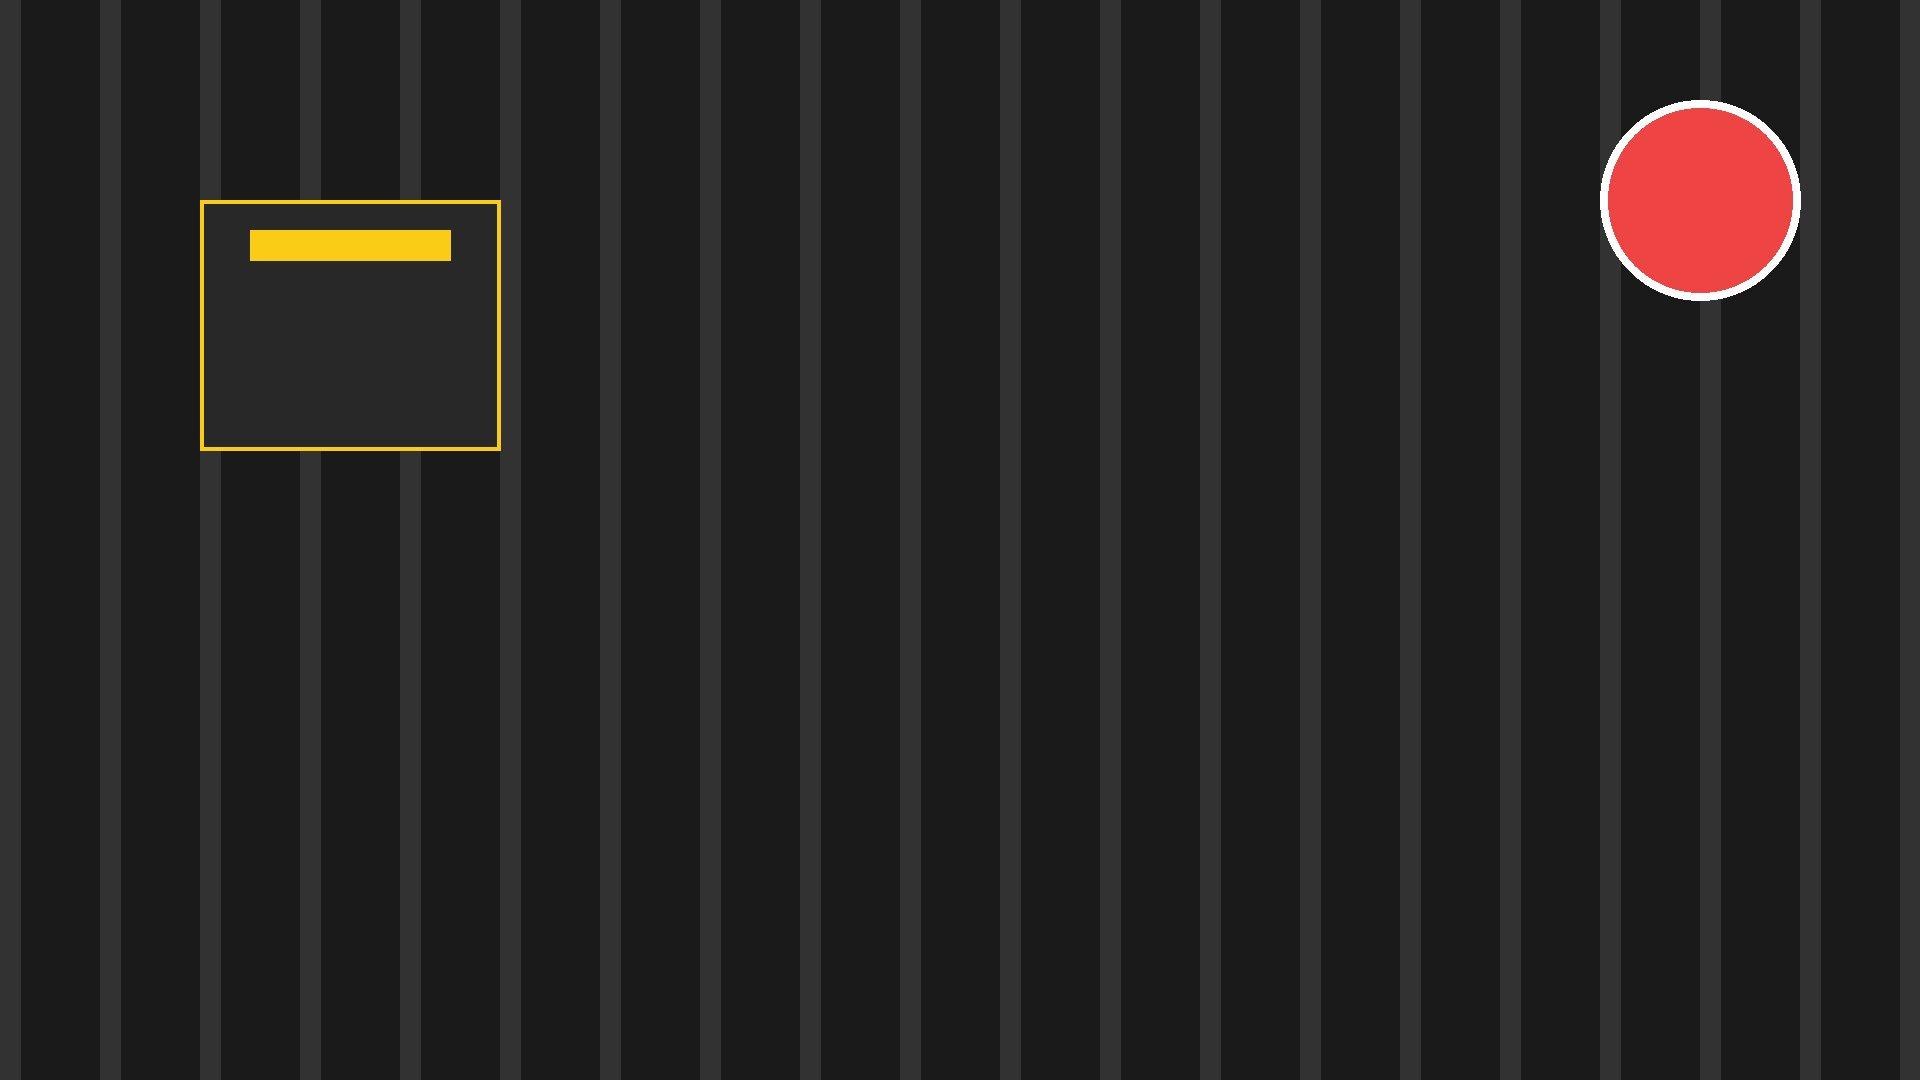
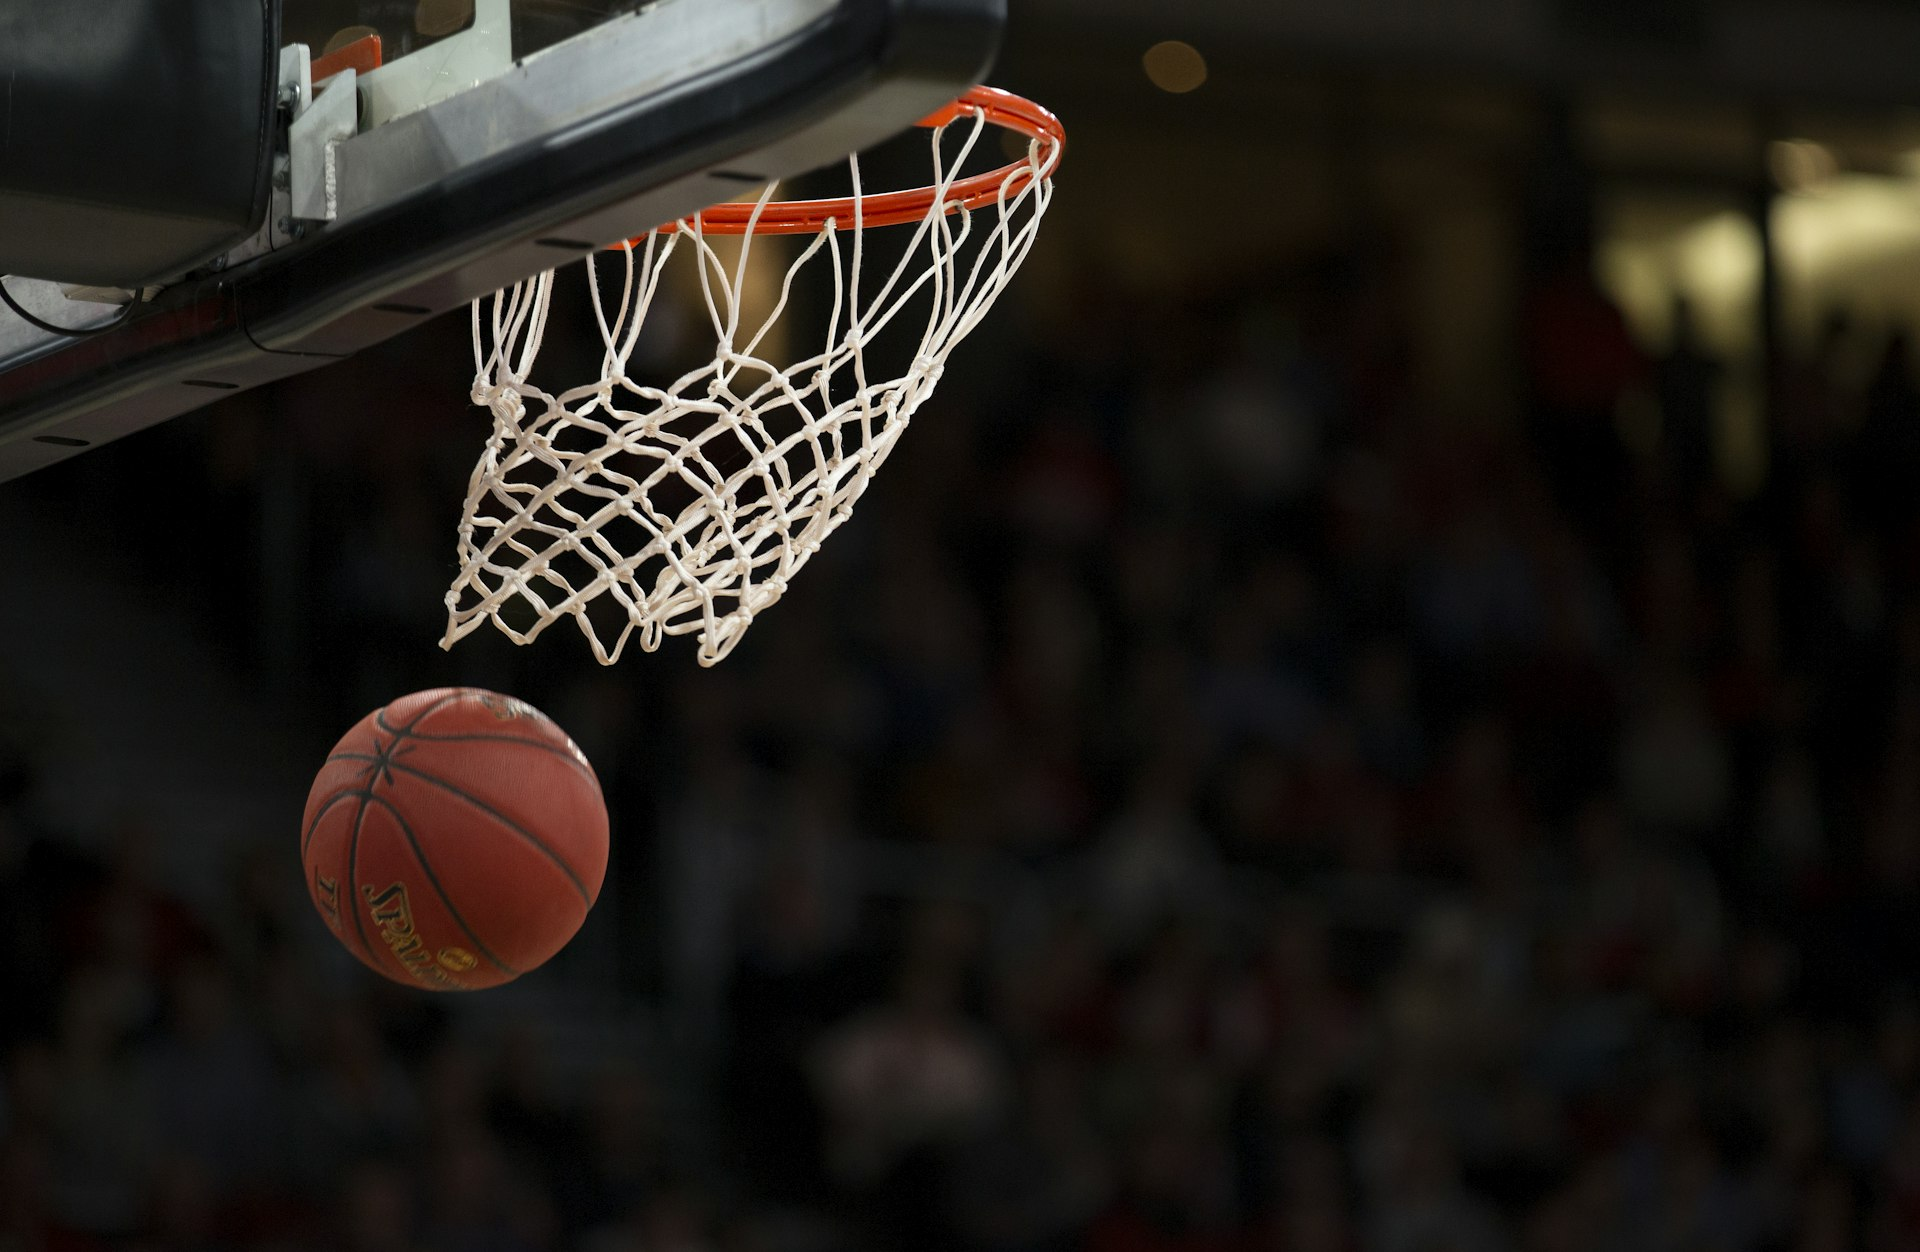
Update site

diff --git a/schedule.html b/schedule.html
@@ -50,7 +50,7 @@
         <a href="contact.html" class="hover:text-brand-yellow transition-colors py-2 inline-block">ارتباط با ما</a>
     </div>
     <section class="min-h-screen relative overflow-hidden pt-32 pb-20 px-6 md:px-12">
-        <div class="absolute inset-0 bg-cover bg-center bg-no-repeat" style="background-image: url('https://images.unsplash.com/photo-1549592835-575f01533ea0?w=1920&q=80');"></div>
+        <div class="absolute inset-0 bg-cover bg-center bg-no-repeat" style="background-image: url('assets/images/bg-schedule.jpg');"></div>
         <div class="absolute inset-0 bg-gradient-to-b from-brand-black/70 via-brand-black/60 to-brand-black"></div>
         <div class="max-w-4xl mx-auto relative z-10">
             <div class="text-center mb-16">

diff --git a/contact.html b/contact.html
@@ -70,7 +70,7 @@
     </div>
 
     <section class="min-h-screen relative overflow-hidden pt-32 pb-20 px-6 md:px-12">
-        <div class="absolute inset-0 bg-cover bg-center bg-no-repeat" style="background-image: url('https://images.unsplash.com/photo-1516280440614-6697288d5d38?w=1920&q=80');"></div>
+        <div class="absolute inset-0 bg-cover bg-center bg-no-repeat" style="background-image: url('assets/images/bg-contact.jpg');"></div>
         <div class="absolute inset-0 bg-gradient-to-b from-brand-black/70 via-brand-black/60 to-brand-black"></div>
         <div class="max-w-6xl mx-auto relative z-10">
             <div class="text-center mb-16">
